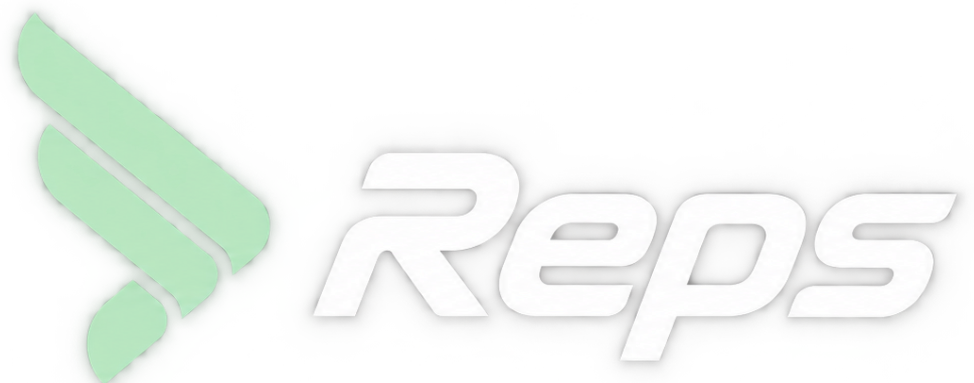
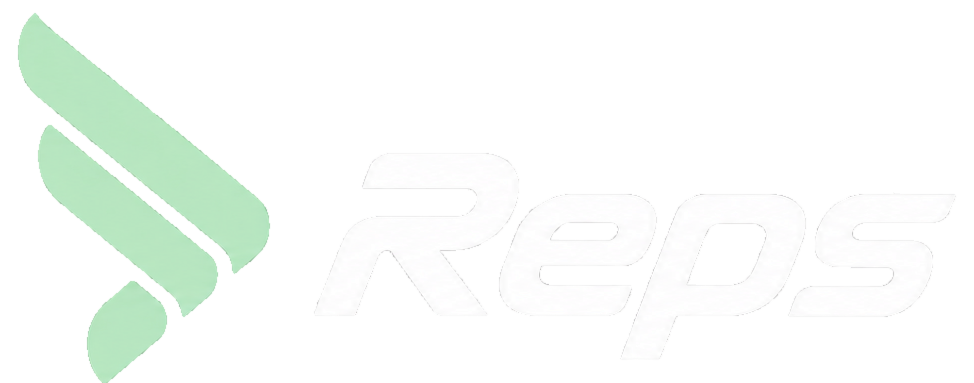
Add files via upload

diff --git a/index.html b/index.html
@@ -7,7 +7,7 @@
 <section class="hero wrap"><div class="hero-copy"><div class="eyebrow"><span class="dot"></span> THE WORKOUT APP BUILT FOR PROGRESS</div><h1>Every rep<br/><em>counts.</em></h1><p class="lead">Train with purpose. Track every set, stay consistent and see how far you've come — all in one place.</p><div class="hero-actions"><a class="pill" data-link="appStore" href="#download">Get it on the App Store <span aria-hidden="true">↗</span></a><a class="pill secondary" href="#preview">Explore the app ↓</a></div><p class="micro">Workout tracking · Progress insights · Community</p></div><div class="hero-art"><div class="halo"></div><div class="phone hero-phone"><img alt="Reps home screen, calendar, training consistency and next workout" src="assets/IMG_6773.PNG"/></div><div class="floating-note top-note">YOUR ROUTINE. YOUR PACE.</div><div class="floating-note bottom-note"><span class="tiny-dot"></span> Keep showing up.</div></div></section>
 <section class="stats-band"><div class="wrap stats"><span><b>01</b> Plan your training</span><span><b>02</b> Log your lifts</span><span><b>03</b> See your progress</span></div></section>
 <section class="section wrap" id="features"><div class="section-head"><div><div class="eyebrow">THE ESSENTIALS</div><h2>Everything you need<br/>to <em>keep moving.</em></h2></div><p>Reps gives you the tools that matter, without getting between you and your workout.</p></div><div class="feature-grid"><article class="feature-card"><span class="feature-icon">▥</span><h3>Workouts &amp; routines</h3><p>Log weights, sets and reps. Build routines and keep your sessions organised.</p></article><article class="feature-card"><span class="feature-icon">↗</span><h3>Progress &amp; records</h3><p>See personal records, achievements and training consistency in one place.</p></article><article class="feature-card"><span class="feature-icon">◎</span><h3>Community</h3><p>Follow other lifters, share workouts and discover routines worth trying.</p></article><article class="feature-card"><span class="feature-icon">▣</span><h3>Workout media</h3><p>Keep workout media and replay moments from your training.</p></article></div></section>
-<section class="section showcase" id="preview"><div class="wrap"><div class="section-head"><div><div class="eyebrow">REAL APP. REAL TRAINING.</div><h2>Take a <em>closer look.</em></h2></div><p>A look inside the actual Reps iPhone app. Swipe across the screenshots to explore.</p></div><div class="preview-brand"><img alt="Reps" loading="lazy" src="assets/reps-wordmark-clean.png"/></div><div aria-label="Reps screenshots, horizontally scrollable" class="gallery" tabindex="0"><figure><div class="phone"><img alt="Reps Home: training calendar, consistency and next workout" loading="lazy" src="assets/IMG_6773.PNG"/></div><figcaption><b>01 / Home</b><span>Stay on track</span></figcaption></figure><figure><div class="phone"><img alt="Reps Routines: saved workout folders and start empty workout" loading="lazy" src="assets/IMG_6782.PNG"/></div><figcaption><b>02 / Routines</b><span>Build your training</span></figcaption></figure><figure><div class="phone"><img alt="Reps Community: following and explore feeds" loading="lazy" src="assets/IMG_6774.PNG"/></div><figcaption><b>03 / Community</b><span>Train together</span></figcaption></figure><figure><div class="phone"><img alt="Reps Progress: achievements, records, weekly workout goals" loading="lazy" src="assets/IMG_6775.PNG"/></div><figcaption><b>04 / Progress</b><span>Celebrate every milestone</span></figcaption></figure></div><div class="gallery-hint">← SWIPE TO EXPLORE →</div></div></section>
+<section class="section showcase" id="preview"><div class="wrap"><div class="section-head"><div><div class="eyebrow">REAL APP. REAL TRAINING.</div><h2>Take a <em>closer look.</em></h2></div><p>A look inside the actual Reps iPhone app. Swipe across the screenshots to explore.</p></div><div class="preview-brand"><img alt="Reps" loading="lazy" src="assets/reps-wordmark-clean.png"/></div><div aria-label="Reps screenshots, horizontally scrollable" class="gallery" tabindex="0"><figure><div class="phone"><img alt="Reps Home: training calendar, consistency and next workout" loading="lazy" src="assets/IMG_6773.PNG"/></div><figcaption><b>01 / Home</b><span>Stay on track</span></figcaption></figure><figure><div class="phone"><img alt="Reps Routines: saved workout folders and start empty workout" loading="lazy" src="assets/IMG_6782.PNG"/></div><figcaption><b>02 / Routines</b><span>Build your training</span></figcaption></figure><figure><div class="phone"><img alt="Reps active workout: log sets, weight and repetitions for a legs session" loading="lazy" src="assets/IMG_6783.PNG"/></div><figcaption><b>03 / Workout</b><span>Log every set</span></figcaption></figure><figure><div class="phone"><img alt="Reps Community: following and explore feeds" loading="lazy" src="assets/IMG_6774.PNG"/></div><figcaption><b>04 / Community</b><span>Train together</span></figcaption></figure><figure><div class="phone"><img alt="Reps Progress: achievements, records, weekly workout goals" loading="lazy" src="assets/IMG_6775.PNG"/></div><figcaption><b>05 / Progress</b><span>Celebrate every milestone</span></figcaption></figure></div><div class="gallery-hint">← SWIPE TO EXPLORE →</div></div></section>
 <section class="section pro-section" id="pro">
 <div class="wrap">
 <div class="pro-header"><div><div class="eyebrow gold">✦ REPS PRO · COMING SOON</div><h2>Take your training<br/><em>further.</em></h2><p>Everything you love about Reps, with more control over your training, your progress and your experience.</p></div><div aria-hidden="true" class="pro-emblem"><span>Reps</span><strong>PRO</strong></div></div>

diff --git a/styles.css b/styles.css
@@ -7,7 +7,7 @@
 .nav-logo{width:154px;max-height:65px;object-fit:contain;display:block}
 .footer-logo{width:182px;max-width:100%;height:auto;display:block}
 .preview-brand{display:flex;justify-content:center;align-items:center;margin:-8px auto 34px;padding:10px 16px}
-.preview-brand img{width:min(500px,90%);height:auto;display:block;filter:drop-shadow(0 14px 26px #0005)}
+.preview-brand img{width:min(500px,90%);height:auto;display:block;filter:none}
 @media(max-width:700px){.nav-logo{width:118px}.preview-brand{margin:0 auto 20px}.preview-brand img{width:min(350px,100%)}}
 
 /* Launch polish: stronger Reps branding, support and motion */
